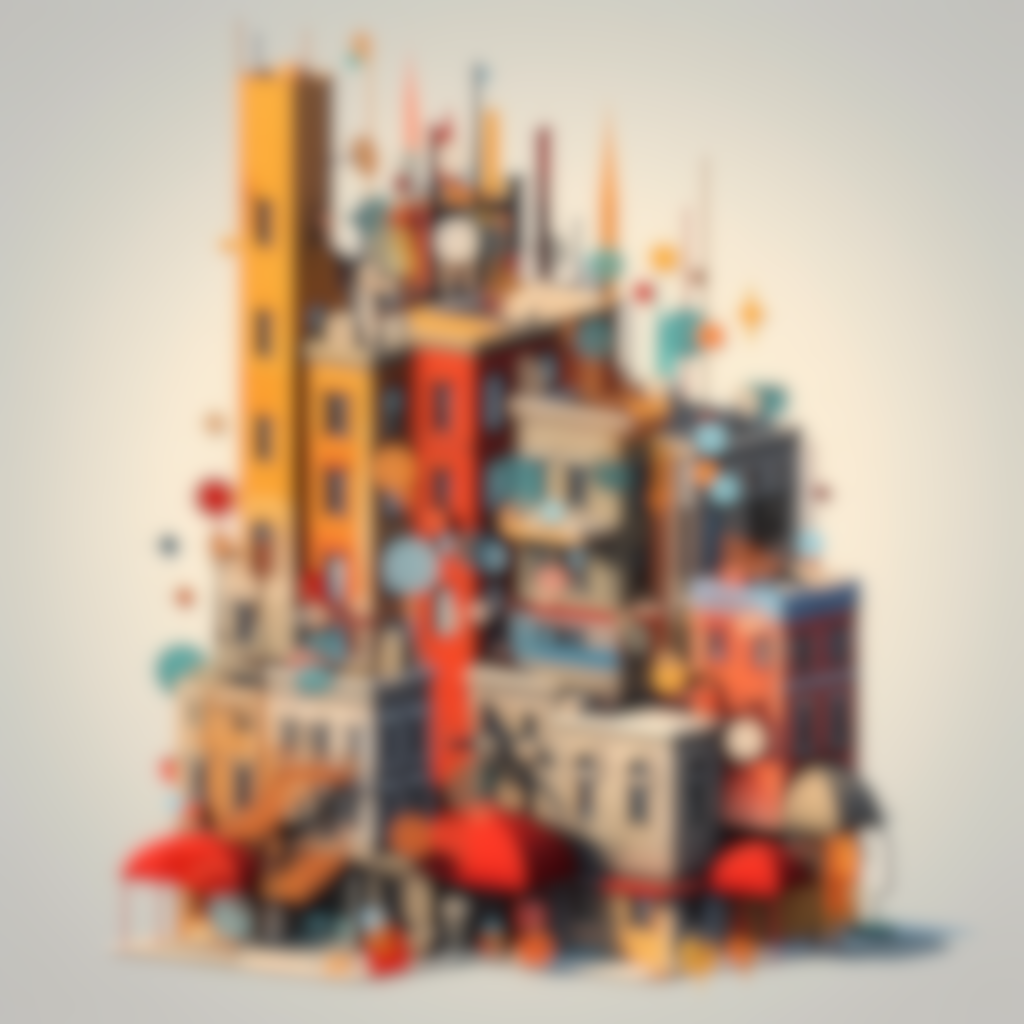
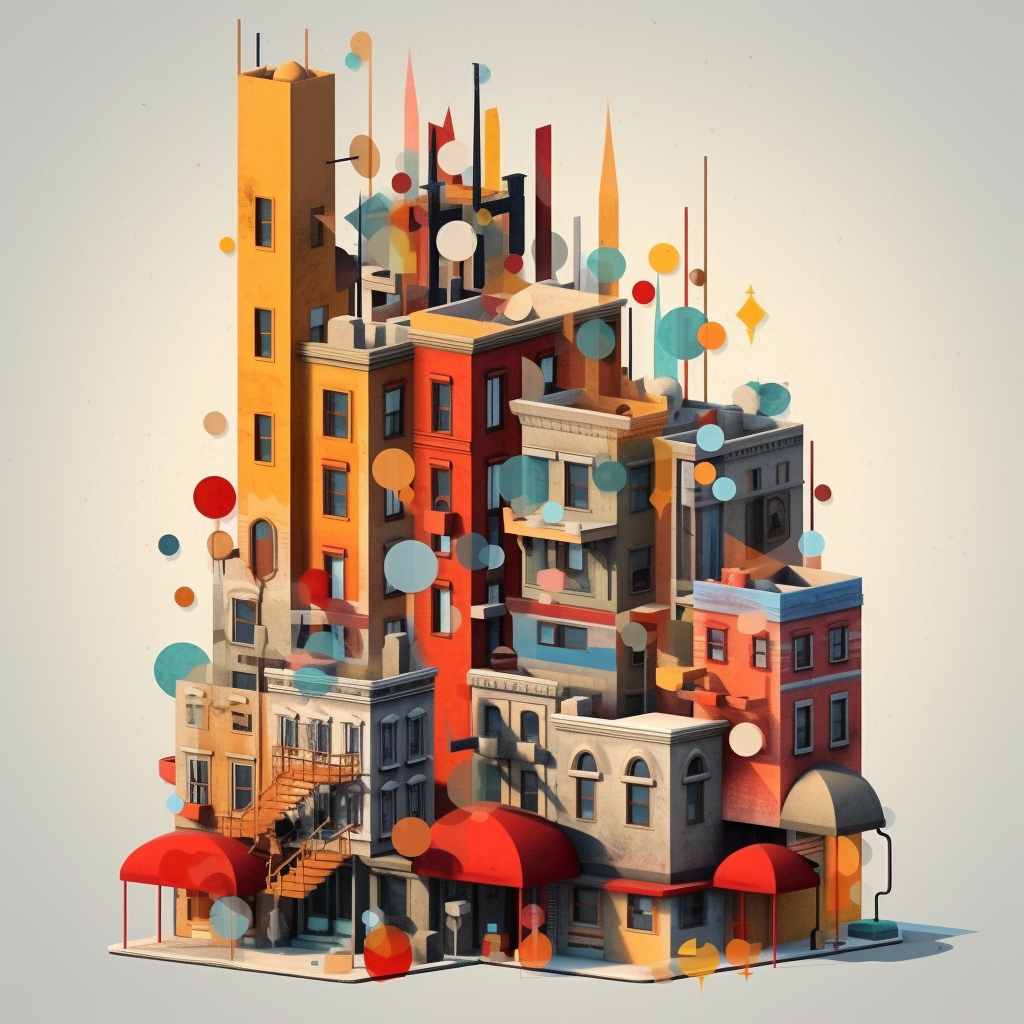
IMAGIES UPDATE

diff --git a/website/index.html b/website/index.html
@@ -348,7 +348,7 @@
 	</div>
 
 	<div id="fh5co-consult">
-		<div class="video fh5co-video" style="background-image: url(images/cover_bg_1.jpg);">
+		<div class="video fh5co-video" style="background-image: url(images/aSPLIFFnHELL.png);">
 			<div class="overlay"></div>
 		</div>
 		<div class="choose animate-box">
